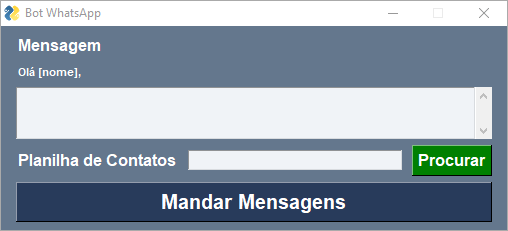
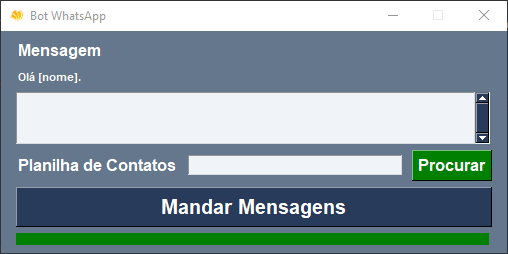
feat: :sparkles: Progress Bar

diff --git a/botWhatsapp.py b/botWhatsapp.py
@@ -26,7 +26,10 @@ layout = [
                                   file_types=(("XLSX files", "*.xlsx"),))
     ],
     [
-        sg.Button('Mandar Mensagens', size=(39, 1), font="Arial 15 bold")
+        sg.Button('Mandar Mensagens', size=(39, 1), font="Arial 15 bold", key='botaoEnviar')
+    ],
+    [
+        sg.ProgressBar(100, orientation='h', s=(43,12), key='progbar', bar_color="Green")
     ]
 ]
 
@@ -37,7 +40,6 @@ while True:
     if event == sg.WIN_CLOSED:
         break
     if event == 'Mandar Mensagens':
-
         texto = values['-texto-']
         local_planilha = values['-planilha-']
 
@@ -50,7 +52,8 @@ while True:
             continue
              
         if texto != '' and local_planilha != '':
-            
+            window['botaoEnviar'].update(disabled=True)
+            window['progbar'].update(bar_color="Red")
             try:
               planilha = import_planilha(local_planilha)
             except:
@@ -66,6 +69,7 @@ while True:
                     page = await browser.newPage()
                     await page.goto('https://web.whatsapp.com/', options={"waitUntil": "domcontentloaded"})
                     
+                    envios = 0
                     TentativaAtual = 0
                     NumerodeTentativas = 5
 
@@ -103,11 +107,14 @@ while True:
                             continue
                         else:
                             print('Mensagem enviada a {} no número: {}'.format(nome, numero))
+                            envios += 1
+                            window['progbar'].UpdateBar(envios,mensagens)
                         
                         time.sleep(3)
 
                     await browser.close()
                     output(numeros_n_enviados)
+                    window['botaoEnviar'].update(disabled=False)
                     sg.popup("{} Mensagens enviadas.\n{} Não enviadas.".format(mensagens - tam, tam), font=font)
 
                 asyncio.run(mandarMensagem(texto, planilha))
